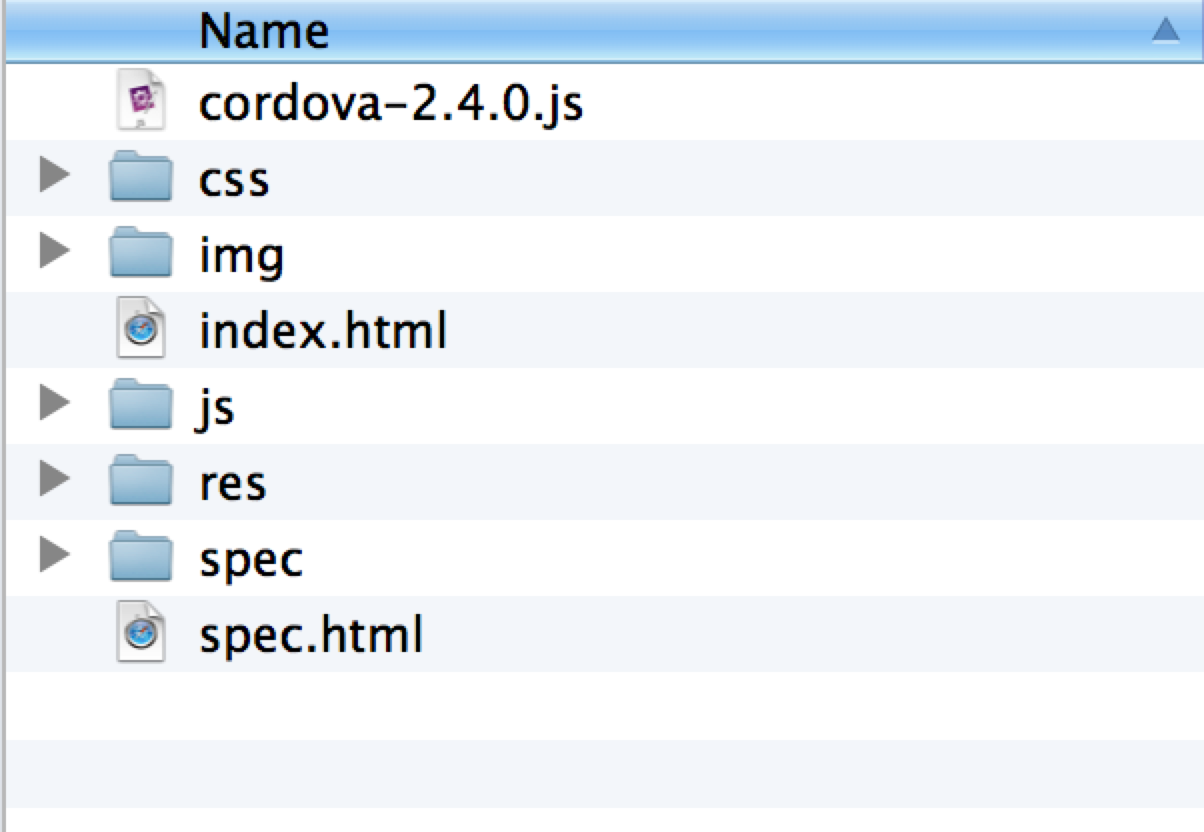
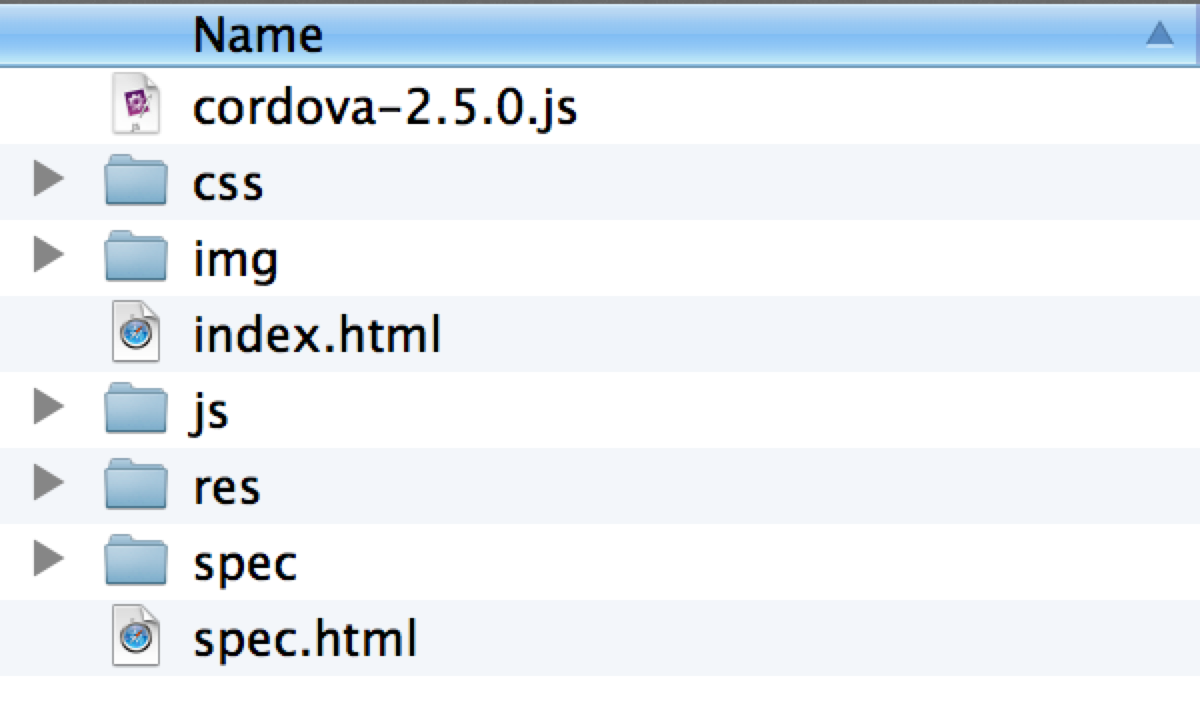
cordova-2.5, new camera demo images

Changed region(s): [[0.0, 0.0, 1.0, 1.0]]

diff --git a/2013-03-02-chariot-day/index.html b/2013-03-02-chariot-day/index.html
@@ -37,7 +37,7 @@
 
 				<section>
 					<h2>Developing PhoneGap Apps</h2>
-					<p>Snow Mobile 2/16/13</p>
+					<p>Chariot Day 3/2/13</p>
 					<p>
 						<small>Don Coleman <br/>
 						    Chariot Solutions <br/>
@@ -111,7 +111,7 @@
                     </ul>
                     </p>
                     <small>
-                    <a href="http://docs.phonegap.com/en/2.4.0/index.html">http://docs.phonegap.com/en/2.4.0/index.html</a><br/>
+                    <a href="http://docs.phonegap.com/en/2.5.0/index.html">http://docs.phonegap.com/en/2.5.0/index.html</a><br/>
                     <a href="http://phonegap.com/about/feature">http://phonegap.com/about/feature</a>
                     </small>
                     <aside class="notes">TODO replace with screenshot http://phonegap.com/about/feature/</asize>
@@ -162,9 +162,9 @@
                 
                 <section>
                     <p>Unzip archive</p>
-                    <p class="fragment">move somewhere like /usr/local/phonegap-2.4.0</p>
+                    <p class="fragment">move somewhere like /usr/local/phonegap-2.5.0</p>
                     <aside class="notes">
-                        TODO maybe ~/phonegap-2.4.0
+                        TODO maybe ~/phonegap-2.5.0
 					</aside>
                 </section>
 
@@ -188,7 +188,7 @@
                     <section>
                         <p style="font-size: 1.8em">iOS</p>
                         <pre><code contenteditable>
-$ cd /usr/local/phonegap-2.4.0
+$ cd /usr/local/phonegap-2.5.0
 $ cd lib/ios/bin
 $ ./create ~/foo com.example.foo Foo 
 $ cd ~/foo
@@ -229,7 +229,7 @@ $ ./cordova/emulate
                 <section>
                     <h2>Android</h2>
                     <pre><code contenteditable>
-$ cd /usr/local/phonegap-2.4.0
+$ cd /usr/local/phonegap-2.5.0
 $ cd lib/android/bin
 $ ./create ~/foo com.example.foo Foo 
 $ cd ~/foo
@@ -264,7 +264,7 @@ $ ./cordova/run
                           
                 <section>
                     <p>PhoneGap Getting Started Guides</p>
-                    <a href="http://docs.phonegap.com/en/2.4.0/guide_getting-started_index.md.html">http://docs.phonegap.com/en/2.4.0/guide_getting-started_index.md.html</a>
+                    <a href="http://docs.phonegap.com/en/2.5.0/guide_getting-started_index.md.html">http://docs.phonegap.com/en/2.5.0/guide_getting-started_index.md.html</a>
                     <aside class="notes">
                         We'll use the command line
                     </aside>
@@ -276,7 +276,7 @@ $ ./cordova/run
 
                 <section>
                     The www directory is just a web project
-                    <aside class="notes">TODO get new screenshot with cordova 2.4</aside>
+                    <aside class="notes">TODO get new screenshot with cordova 2.5</aside>
                 </section>
                 
                 <section>
@@ -298,7 +298,7 @@ $ ./cordova/run
 &lt;!DOCTYPE html&gt;
 &lt;html&gt;
     ...
-        &lt;script src="cordova-2.4.0.js"&gt;&lt;/script&gt;
+        &lt;script src="cordova-2.5.0.js"&gt;&lt;/script&gt;
         &lt;script src="js/index.js"&gt;&lt;/script&gt;
         &lt;script type="text/javascript"&gt;
             app.initialize();
@@ -337,7 +337,7 @@ var app = {
 navigator.camera.getPicture( 
     cameraSuccess, cameraError, [ cameraOptions ] );
                     </code></pre>
-                    <small class="fragment"><a href="http://docs.phonegap.com/en/2.4.0/cordova_camera_camera.md.html">http://docs.phonegap.com/en/2.4.0/cordova_camera_camera.md.html</a></small>
+                    <small class="fragment"><a href="http://docs.phonegap.com/en/2.5.0/cordova_camera_camera.md.html">http://docs.phonegap.com/en/2.5.0/cordova_camera_camera.md.html</a></small>
                 </section>
 
                 <section>
@@ -374,7 +374,7 @@ function onFailure(message) {
     android:name="android.permission.WRITE_EXTERNAL_STORAGE" /&gt;
                     </pre></code>
                     <aside class="notes">
-                        http://docs.phonegap.com/en/2.4.0/cordova_camera_camera.md.html
+                        http://docs.phonegap.com/en/2.5.0/cordova_camera_camera.md.html
                     </aside>
                 </section>
 
@@ -449,27 +449,41 @@ takePicture: function() {
 
                 <section>
                     <section>
-                         <img src="images/camera1.jpg" />
+                         <h2>Demo</h2>
+                    </section>                
+                    <section>
+                         <img src="images/camera1.png" />
                     </section>
                     <section>
-                         <img src="images/camera2.jpg" />
+                         <img src="images/camera2.png" />
                     </section>
                     <section>
-                         <img src="images/camera3.jpg" />
+                         <img src="images/camera3.png" />
                     </section>
                     <section>
-                         <img src="images/camera4.jpg" />
+                         <img src="images/camera4.png" />
                     </section>
+                    <section>
+                         <img src="images/camera5.png" />
+                    </section>
+                    <section>
+                         <img src="images/camera6.png" />
+                    </section>
+                    <section>
+                         <img src="images/camera7.png" />
+                    </section>
+                    <section>
+                         <img src="images/camera8.png" />
+                    </section>                    
                 </section>
 
-                
                 <!-- TODO need a transition here? -->
                 
                 
                 <!-- TODO move this up? or rename -->
                 <section>
                     <p>Lots of other APIs</p>
-                    <a href="http://docs.phonegap.com/en/2.4.0/index.html">http://docs.phonegap.com/en/2.4.0/index.html</a>
+                    <a href="http://docs.phonegap.com/en/2.5.0/index.html">http://docs.phonegap.com/en/2.5.0/index.html</a>
                 </section>
                 
                 <!-- TODO what if you want to do something phonegap doesn't do -->
@@ -635,19 +649,19 @@ takePicture: function() {
                    <section>
                         <pre><code contenteditable>
     $ plugman --list
-    BarcodeScanner - Cross-platform BarcodeScanner for Cordova/PhoneGap
+    BarcodeScanner - Cross-platform BarcodeScanner
     ChildBrowser - ChildBrowser plugin
     Facebook-Connect - Official plugin for Facebook Connect 
     GAPlugin - Google Analytics Plugin
     KeychainPlugin - Keychain Plugin for Apache Cordova
     NFC - Near Field Communication Plugin
-    PushPlugin - Push Notification Plugin for iOS and Android
+    PushPlugin - Push Notification Plugin for iOS &amp; Android
     TestflightPlugin - TestFlight Plugin for Apache Cordova</code></pre>
                     </section>                
 
                     <section>
                          <pre><code contenteditable>    
-    plugman --platform ios --project platforms/ios --plugin BarcodeScanner
+plugman --platform ios --project . --plugin BarcodeScanner
                         </code></pre>
                     </section>
                     
@@ -736,7 +750,10 @@ takePicture: function() {
                     <p>Don Coleman</p>
                     <a href="mailto:don@chariotsolutions.com">don@chariotsolutions.com</a><br/>				    
 				    <a href="http://twitter.com/doncoleman">@doncoleman</a><br/>
-				    <a href="http://don.github.com/slides/2013-02-16-snow-mobile">http://don.github.com/slides/2013-02-16-snow-mobile</a>
+				    <p>
+				    <small><a href="http://don.github.com/slides/2013-03-02-chariot-day">
+				        http://don.github.com/slides/2013-03-02-chariot-day</a></small>
+				    </p>
                 </section>
    						
 			</div>
